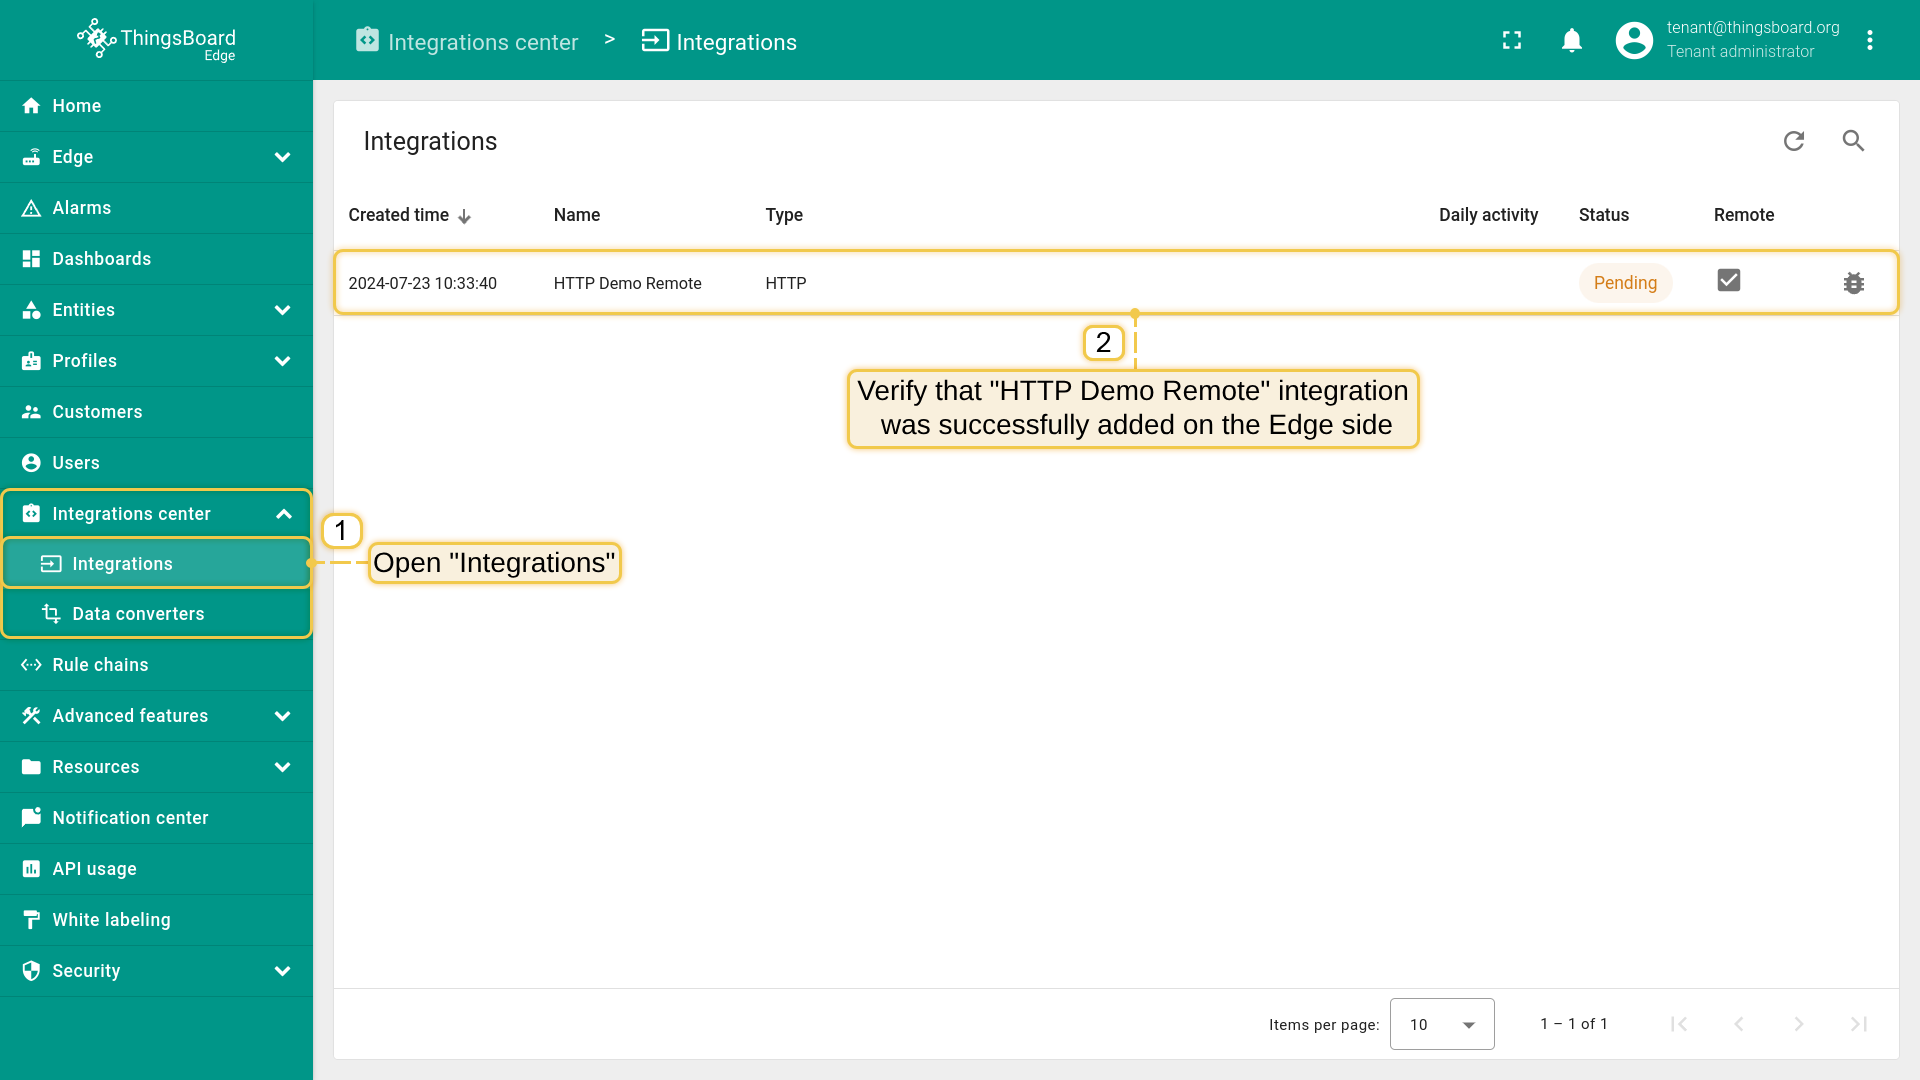
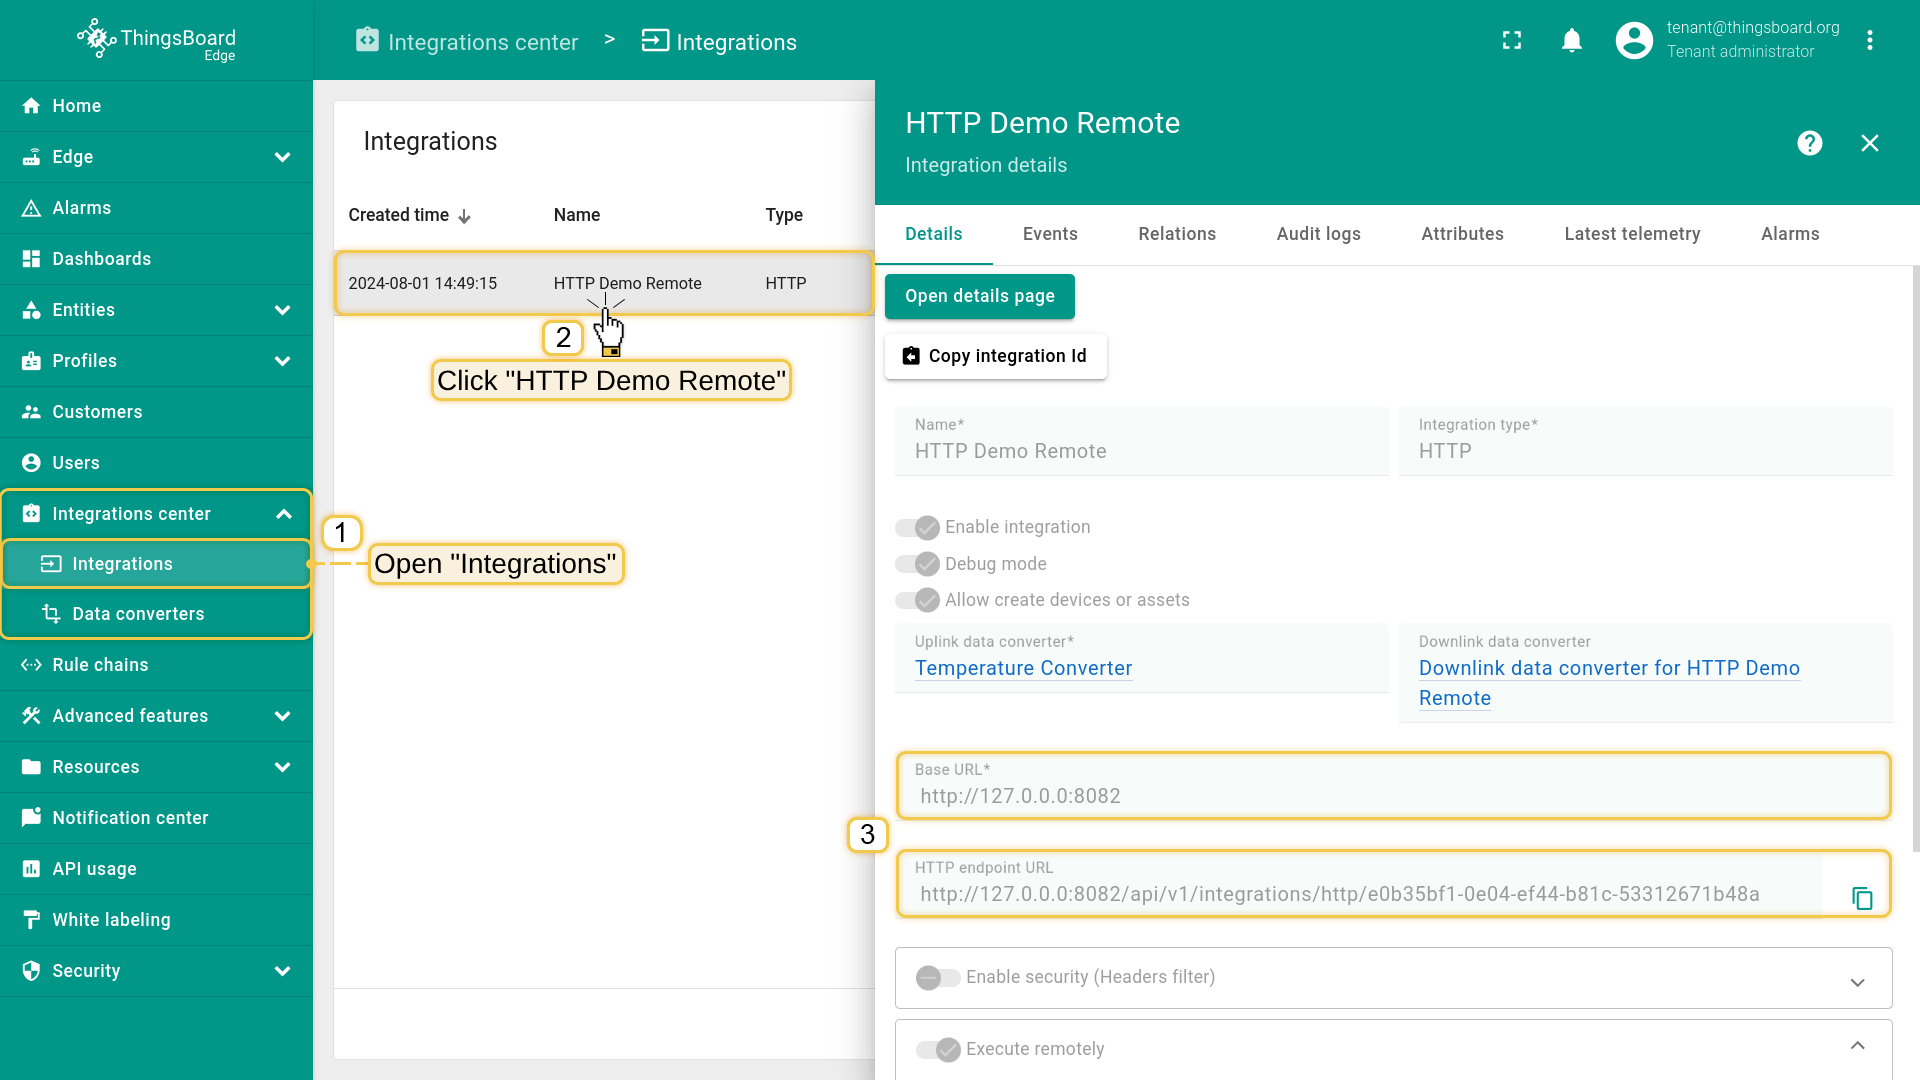
Remote integrations screenshots update fix

diff --git a/docs/pe/edge/user-guide/integrations/remote-integrations.md b/docs/pe/edge/user-guide/integrations/remote-integrations.md
@@ -31,13 +31,13 @@ addIntegration:
 assignIntegration:
     0:
         image: /images/pe/edge/integrations/remote/assign-integration-step-1.png
-        title: '1. Open <b>Instances</b> menu page. 2. Click <b>My New Edge</b>.'
+        title: '1. Open <b>Instances</b> menu page. 2. Click on <b>My New Edge</b>.'
     1:
         image: /images/pe/edge/integrations/remote/assign-integration-step-2.png
-        title: '1. Click <b>Attributes</b> tab. 2. Click <b>("+")</b> icon.'
+        title: '1. Click <b>Attributes</b> tab. 2. Click <b>("+")</b> icon to add new attribute.'
     2:
         image: /images/pe/edge/integrations/remote/assign-integration-step-3.png
-        title: '1. Enter <b>remoteHttpIntegrationUrl</b> attribute. 2. Set remote value as your HTTP integration <b>http://IP:port</b>. 3 Click <b>Add</b> button.'
+        title: '1. Enter <b>remoteHttpIntegrationUrl</b> attribute. 2. Set the remote value for your HTTP integration <b>http://IP:port</b>. 3. Click <b>Add</b> button.'
     3:
         image: /images/pe/edge/integrations/remote/assign-integration-step-4.png
         title: 'Open <b>Instances</b> menu page.'
@@ -46,13 +46,13 @@ assignIntegration:
         title: 'Click <b>Manage edge integrations</b>.'
     5:
         image: /images/pe/edge/integrations/remote/assign-integration-step-6.png
-        title: 'Click <b>("+") icon</b>.'
+        title: 'Click <b>("+")</b> icon.'
     6:
         image: /images/pe/edge/integrations/remote/assign-integration-step-7.png
         title: '1. Select the target integration. 2. Click <b>Assign</b> button.'
     7:
         image: /images/pe/edge/integrations/remote/assign-integration-step-8.png
-        title: 'Open <b>Edge</b> instance. 1. Open the <b>Integrations</b> menu page 2. Verify that the <b>HTTP Demo Remote</b> integration was successfully added on the Edge side.'
+        title: 'Open <b>Edge</b> instance. 1. Open the <b>Integrations</b> menu page 2. Click on <b>HTTP Demo Remote</b>. 3. Check that placeholder is substituted with the value of the attribute.'
 
 copyCredentials:
     0:
@@ -102,7 +102,7 @@ In the function decoder field, specify a script to parse and transform data.
 
 {% include templates/edge/integrations/debug-mode-info.md %}
 
-**Example for the Uplink convert
+**Example for the Uplink converter:**
 
 ```ruby
 // Decode an uplink message from a buffer
